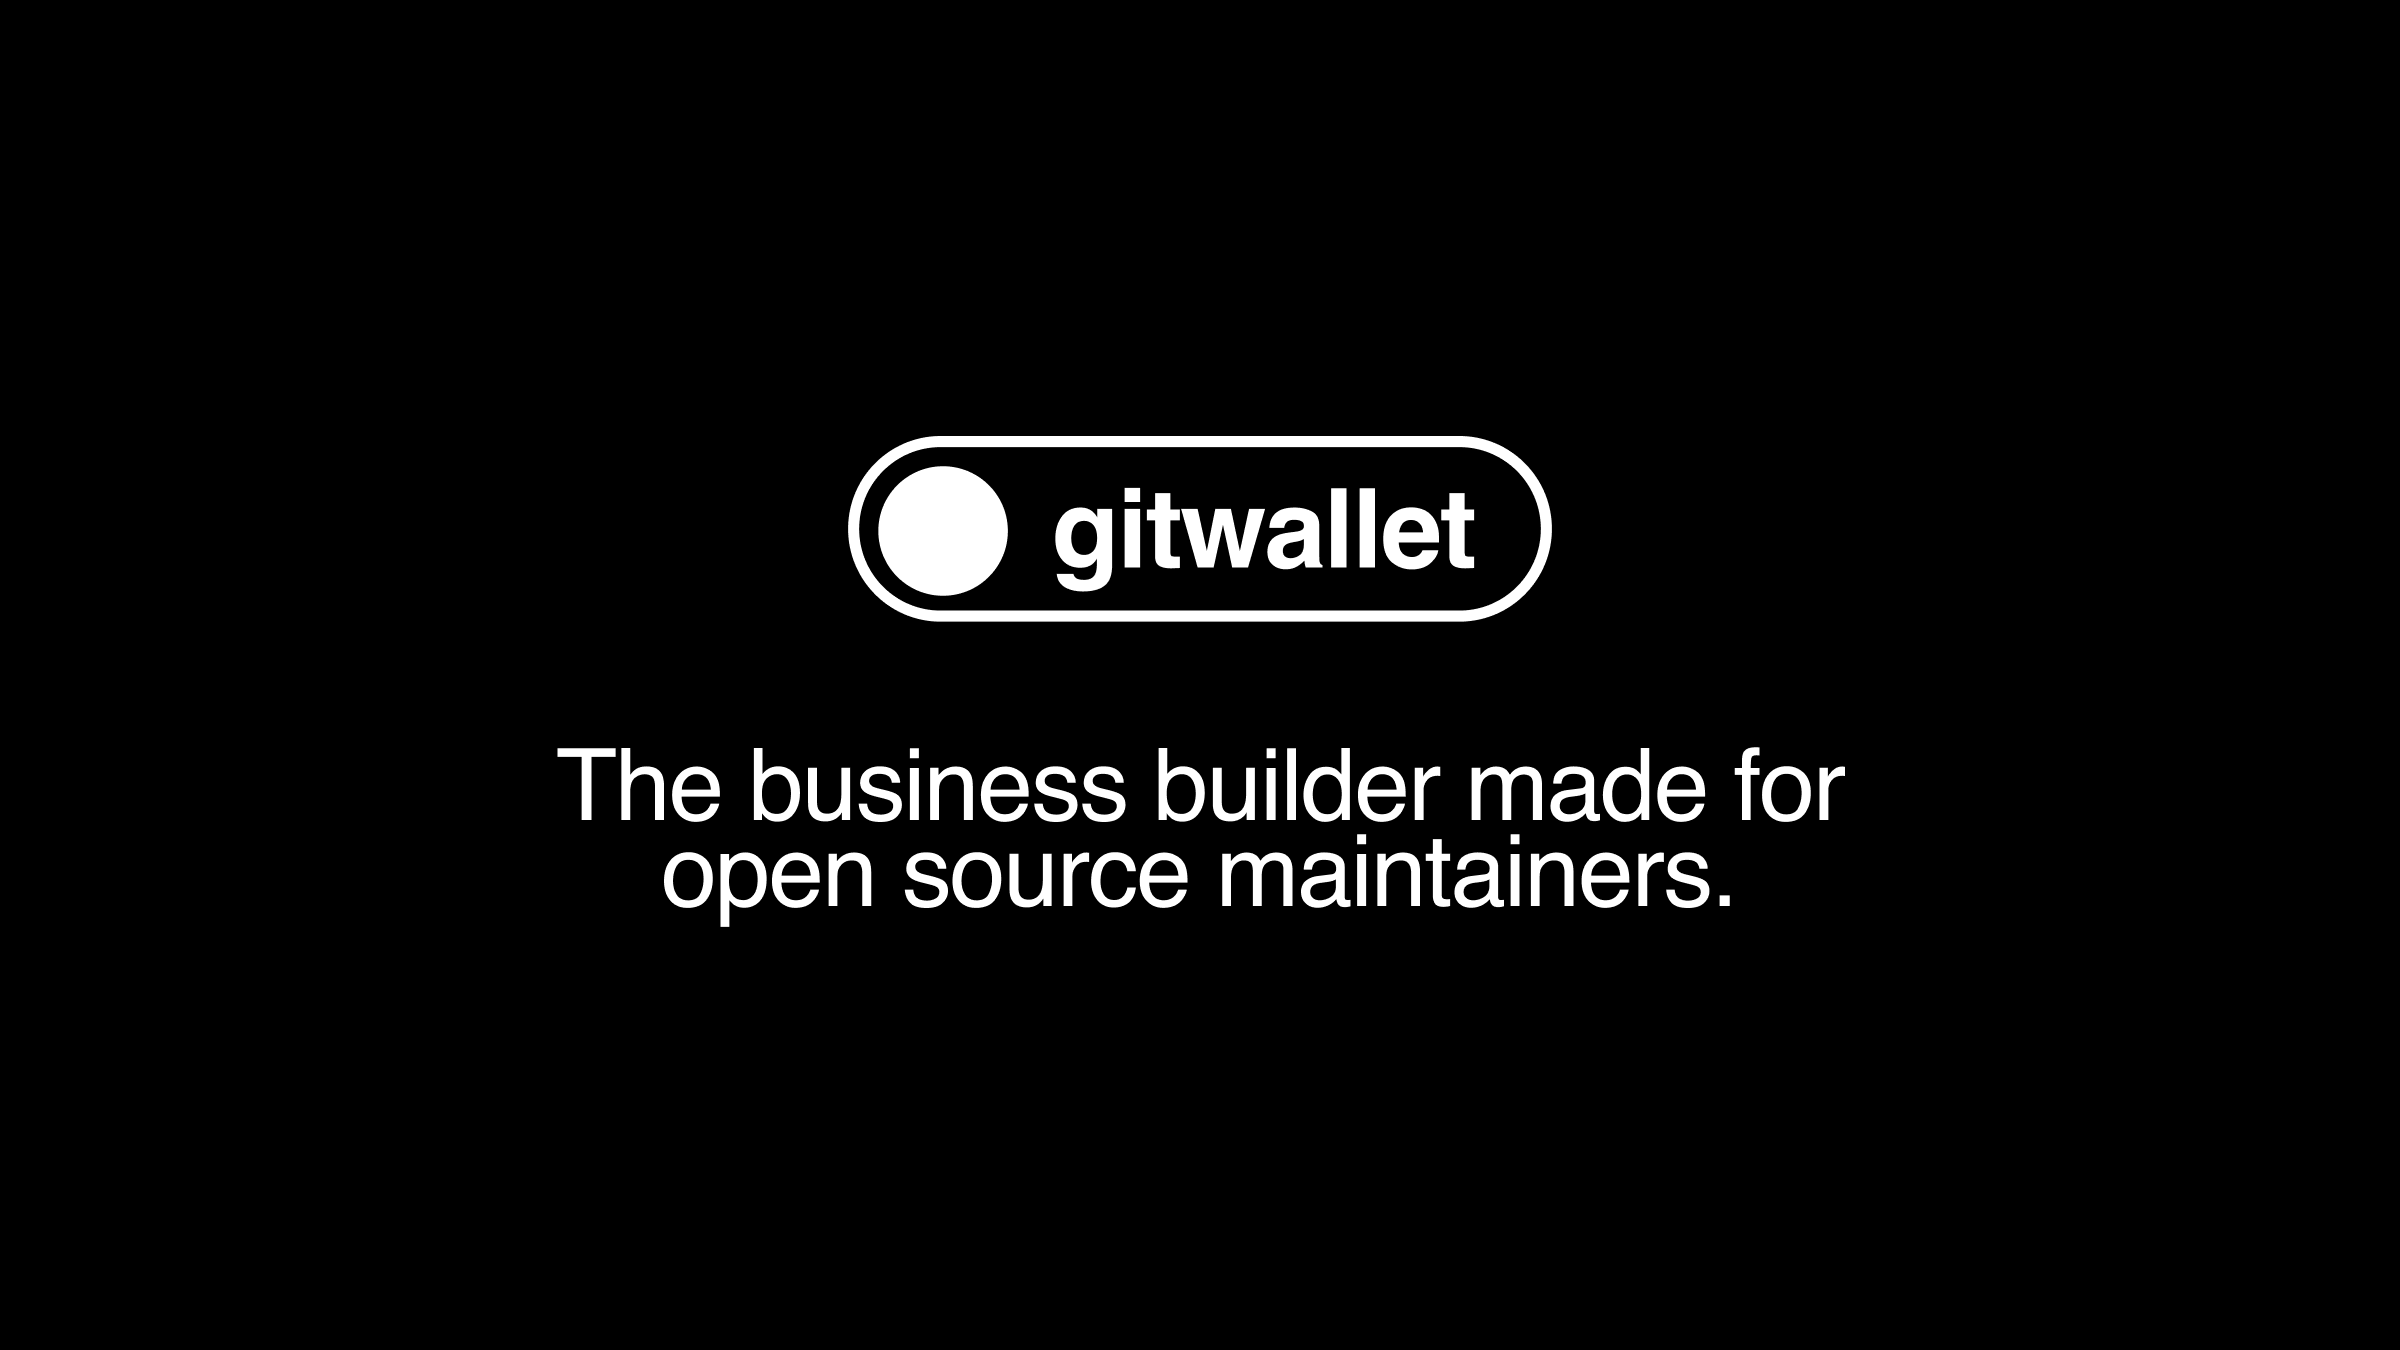
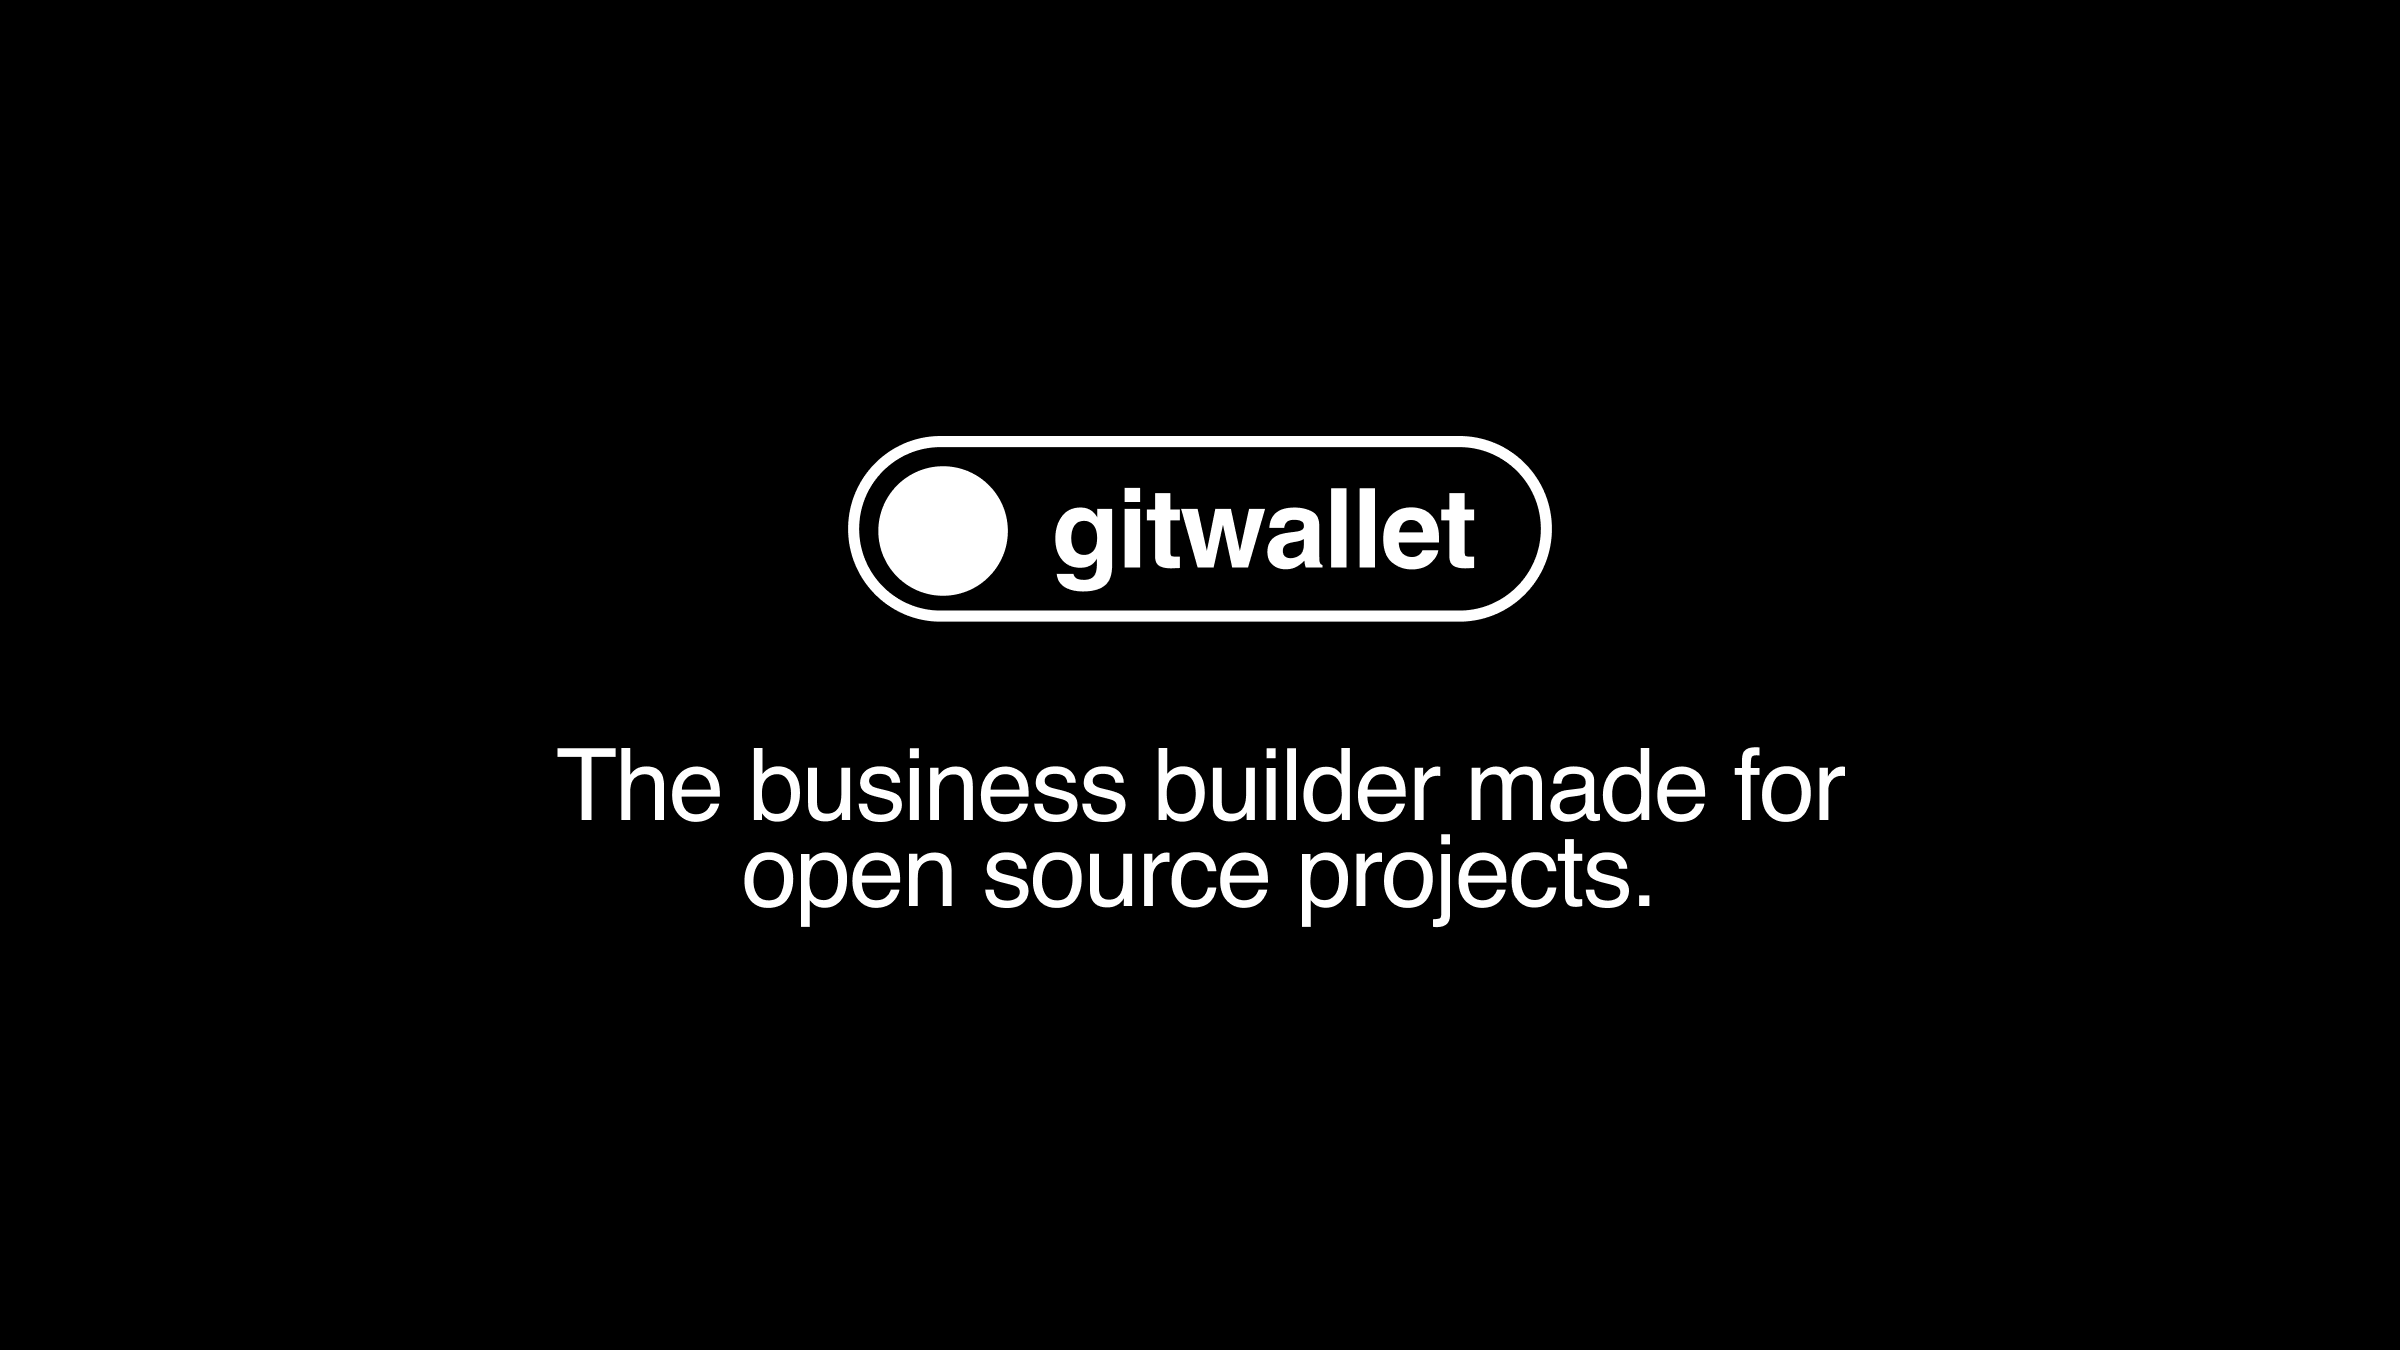
update terminology

Changed region(s): [[0.2812, 0.6222, 0.7188, 0.6844]]

diff --git a/app/alpha/page.tsx b/app/alpha/page.tsx
@@ -68,7 +68,7 @@ export default function HomePage() {
           <div className="w-7/8 lg:w-5/6">
             <Image alt="Gitwallet" src="/logo-white.png" height={0} width={130} className="mb-6" />
             <Badge size="xs" className="mb-4">Now Open for Alpha Users</Badge>
-            <h1 className="text-4xl font-light leading-8 mb-6">The business builder made for open source maintainers.</h1>
+            <h1 className="text-4xl font-light leading-8 mb-6">The business builder made for open source projects.</h1>
             <p className="text-xl font-extralight leading-6 mb-6">Gitwallet is a toolkit to <b>build, sell and manage</b> robust support offerings for your repos and ecosystems.</p>
             <div>
               <Suspense>
@@ -152,16 +152,6 @@ export default function HomePage() {
           </AccordionList>
 
         </section>
-
-        {/* 
-          <section className="w-5/6 mb-8">
-            <Divider>Founders Note</Divider>
-            <p className="text-center text-sm mb-2">We are building Gitwallet with a simple goal: to make it easier for open source maintainers to build strong businesses on the foundation of their OSS work. We often joke that &quot;the creator economy&quot; forgot about the original online creators - the OSS developers that built the Internet. We want to help fill that gap. We hope Gitwallet becomes a toolkit for developers around the world to turn into entrepreneurs.</p>
-            <p className="text-center text-sm">- <b><Link href="https://www.github.com/tarunsachdeva" target="_blank" className="">Tarun</Link> & the Gitwallet team</b></p>
-            <Divider />
-        </section> */}
-
-
       </div>
 
     </div>

diff --git a/app/home/page.tsx b/app/home/page.tsx
@@ -63,7 +63,7 @@ export default function HomePage() {
         <div className="overflow-y-auto">
           <div className="w-7/8 lg:w-5/6">
             <Image alt="Gitwallet" src="/logo-white.png" height={0} width={130} className="mb-6" />
-            <h1 className="text-4xl font-light leading-8 mb-6">The business builder made for open source maintainers.</h1>
+            <h1 className="text-4xl font-light leading-8 mb-6">The business builder made for open source projects.</h1>
             <p className="text-xl font-extralight leading-6 mb-6">Gitwallet is a toolkit to <b>build, sell and manage</b> robust support offerings for your repos and ecosystems.</p>
             <div>
               <SimpleEmailInputForm email={{}} placeholder="Enter Your Email" />

diff --git a/app/app/(payments)/checkout/[id]/page.tsx b/app/app/(payments)/checkout/[id]/page.tsx
@@ -60,15 +60,6 @@ const CheckoutPage = ({ params }: { params: { id: string } }) => {
                 </p>
               </>
             }
-
-            {/* <Text className="text-xs mb-1">Powered by:</Text>
-            <Image
-              alt="Gitwallet"
-              src="/logo-white.png"
-              height={0}
-              width={100}
-            /> */}
-            {/* <h1 className="text-xl font-light leading-8 mb-6">The business builder made for open source maintainers.</h1> */}
             <div></div>
           </div>
         </div>

diff --git a/lib/constants/site-template.ts b/lib/constants/site-template.ts
@@ -1,7 +1,7 @@
 export const siteName = 'Gitwallet';
-export const siteDescription = 'The business builder for open source.';
+export const siteDescription = 'The business builder for open source projects.';
 export const projectName = 'Gitwallet';
-export const projectDescription = 'The business builder for open source.';
+export const projectDescription = 'The business builder for open source projects.';
 export const homepageTitle = 'Welcome';
 export const homepageTemplate = `<Section size="3">
     <Container size="3">

diff --git a/app/layout.tsx b/app/layout.tsx
@@ -10,7 +10,7 @@ import '@radix-ui/themes/styles.css';
 const title =
   "Gitwallet";
 const description =
-  "Gitwallet: The business builder made for open source maintainers.";
+  "Gitwallet: The business builder made for open source projects.";
 const image = "https://gitwallet.co/thumbnail.png";
 
 export const metadata: Metadata = {
